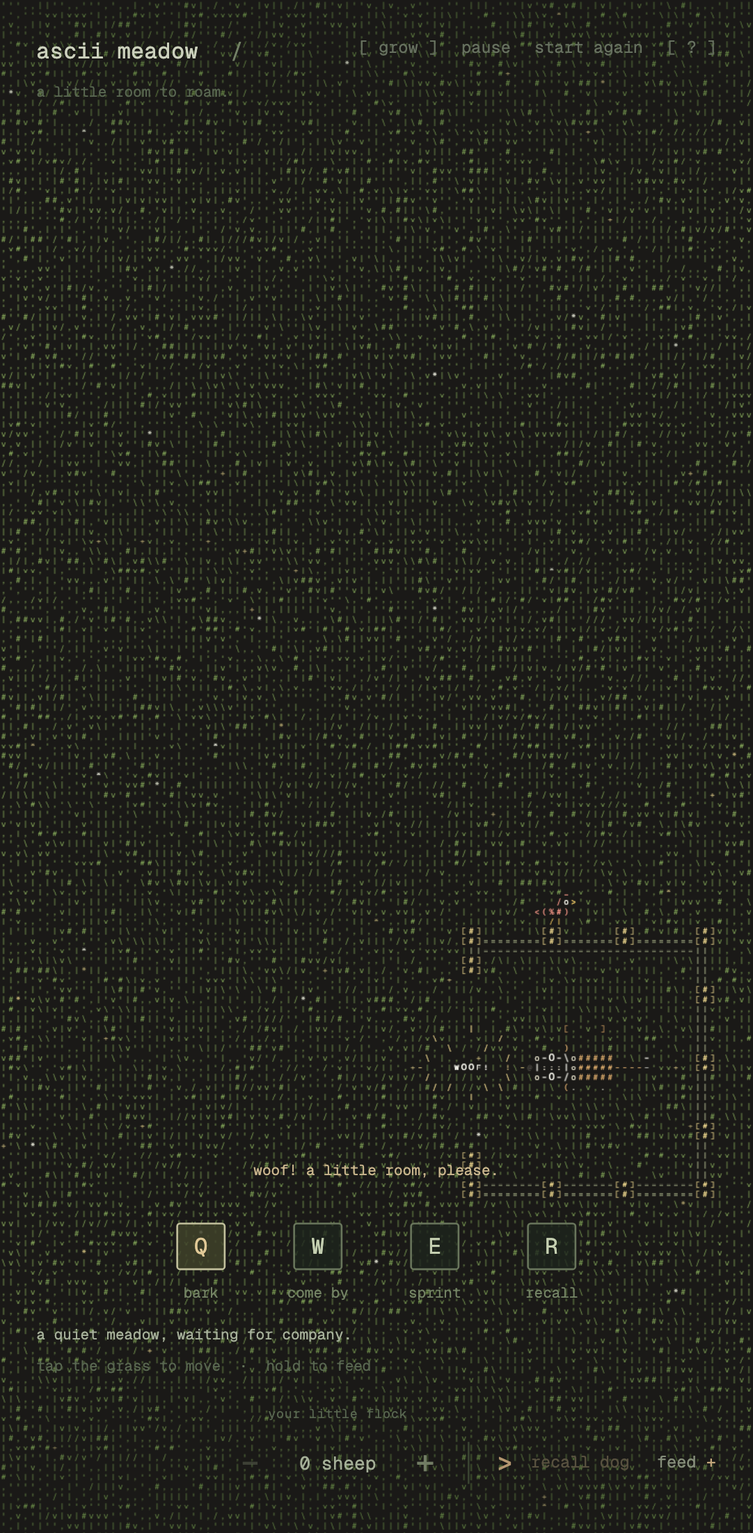
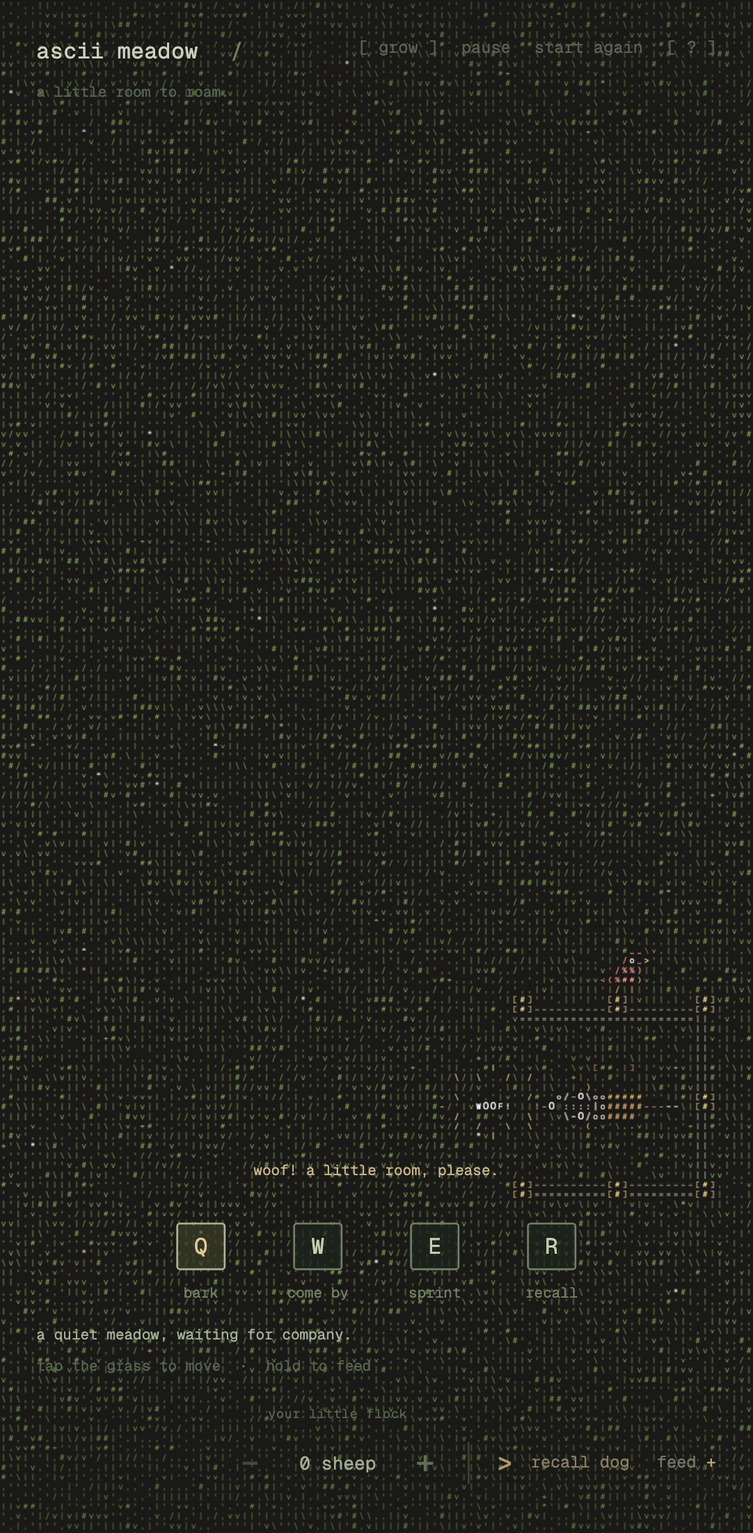
Compact the dog pen and prioritize larger perched birds

diff --git a/e2e/meadow.spec.ts b/e2e/meadow.spec.ts
@@ -5,7 +5,7 @@ test.beforeEach(async ({ page }) => { await page.goto('/?debug'); await page.eva
 
 test('living grass, grazing sheep, full canvas and no errors', async ({ page }, info) => {
   const errors: string[] = []; page.on('pageerror', e => errors.push(e.message));
-  const before = await state(page); expect(before.count).toBe(18); expect(before.cols * before.cellW).toBeGreaterThanOrEqual(before.width); expect(before.rows * before.cellH).toBeGreaterThanOrEqual(before.height);
+  const before = await state(page); expect(before.count).toBe(18); expect(before.dog.atHome).toBe(true); expect(before.dog.arrived).toBe(true); expect(before.dog.x).toBe(before.home.x); expect(before.dog.y).toBe(before.home.y); expect(before.cols * before.cellW).toBeGreaterThanOrEqual(before.width); expect(before.rows * before.cellH).toBeGreaterThanOrEqual(before.height);
   const box = await page.locator('canvas').boundingBox(); expect(box?.width).toBe(before.width); expect(box?.height).toBe(before.height);
   await expect.poll(async () => (await state(page)).eaten).toBeGreaterThan(before.eaten + 0.1);
   await expect.poll(async () => (await state(page)).time).toBeGreaterThan(2);
@@ -57,7 +57,7 @@ test('single right-clicks feed without calling or redirecting the dog; flock con
   await page.reload(); expect((await state(page)).count).toBe(19);
   await page.getByRole('button', { name: 'Remove a sheep', exact: true }).click(); expect((await state(page)).count).toBe(18);
   await page.mouse.click(first.width * 0.5, first.height * 0.4, { button: 'right' });
-  expect((await state(page)).feed.length).toBe(1); expect((await state(page)).dog).toBeNull();
+  expect((await state(page)).feed.length).toBe(1); expect((await state(page)).dog.atHome).toBe(true);
   await page.mouse.click(first.width * 0.7, first.height * 0.4); const commanded = await state(page);
   await page.mouse.click(first.width * 0.4, first.height * 0.45, { button: 'right' }); const fed = await state(page);
   expect(fed.feed.length).toBe(2); expect(fed.dog.targetX).toBe(commanded.dog.targetX); expect(fed.dog.targetY).toBe(commanded.dog.targetY);
@@ -73,7 +73,7 @@ test('pause, help, reset, keyboard visibility, reduced motion and resize', async
   await page.locator('#pause').click(); await page.keyboard.press('h'); await expect(page.locator('body')).toHaveClass(/hide-ui/); await page.keyboard.press('h');
   await page.setViewportSize({ width: 580, height: 760 }); await expect.poll(async () => (await state(page)).width).toBe(580);
   expect((await state(page)).count).toBe(18);
-  await page.locator('#reset').click(); expect((await state(page)).feed.length).toBe(0); expect((await state(page)).dog).toBeNull();
+  await page.locator('#reset').click(); expect((await state(page)).feed.length).toBe(0); expect((await state(page)).dog.atHome).toBe(true);
   await page.emulateMedia({ reducedMotion: 'reduce' }); await page.reload(); expect((await state(page)).paused).toBe(true);
 });
 
@@ -153,7 +153,7 @@ test('colorful visitors land in the meadow, take off near the dog, and appear wi
     }
     return { bird, colored, lambs: w.lambs.length, profileRows: profileRows.size, eyeAboveWing: eyeRow < wingRow };
   });
-  expect(landed.bird).toBeTruthy(); expect(landed.colored).toBeGreaterThan(3); expect(landed.lambs).toBe(3); expect(landed.profileRows).toBe(4); expect(landed.eyeAboveWing).toBe(true);
+  expect(landed.bird).toBeTruthy(); expect(landed.colored).toBeGreaterThan(3); expect(landed.lambs).toBe(3); expect(landed.profileRows).toBe(5); expect(landed.eyeAboveWing).toBe(true);
   await page.screenshot({ path: `docs/${info.project.name}-families.png` });
   const departing = await page.evaluate(() => {
     const app = (window as any).__meadow, w = app.world, bird = w.birds.find((b: any) => b.state === 'landed');
@@ -204,7 +204,7 @@ test('Space toggles a continuous hover regrow brush; P pauses independently', as
   expect((await state(page)).regrowMode).toBe(false);
   expect(await page.evaluate(({ x, y }) => (window as any).__meadow.world.pasture.at(x, y + 80), { x, y })).toBe(0);
   await page.keyboard.press('p'); expect((await state(page)).paused).toBe(false);
-  expect((await state(page)).dog).toBeNull(); expect((await state(page)).feed).toHaveLength(0);
+  expect((await state(page)).dog.atHome).toBe(true); expect((await state(page)).feed).toHaveLength(0);
 });
 
 test('terrain matches Pond charcoal; bare grass rests on charcoal before growing through stages', async ({ page }, info) => {
@@ -279,7 +279,7 @@ test('regrowth gains characters and color gradually, and running dogs have tucke
     for (let r = 0; r < p.rows; r++) for (let c = 0; c < p.cols; c++) p.grass[r * p.cols + c] = amounts[Math.min(5, Math.floor(c / p.cols * 6))];
     app.renderer.render();
     const stages = amounts.map((_, j) => app.renderer.cellAt((j + 0.5) / 6 * w.width, w.height * 0.4));
-    w.toggleDog(); const d = w.dog, x = w.width * 0.5, y = w.height * 0.4;
+    if (!w.dog) w.toggleDog(); const d = w.dog, x = w.width * 0.5, y = w.height * 0.4;
     Object.assign(d, { x, y, targetX: x + 100, targetY: y, heading: 0, vx: 108, vy: 0 }); w.time = 0.25;
     app.renderer.render(); let tail = 0, feet = 0;
     for (let r = 0; r < p.rows; r++) for (let c = 0; c < p.cols; c++) {
@@ -354,10 +354,22 @@ test('the dog starts inside a thick posted pen, opens its mouth to bark, and bir
     const bird = w.birds.find((b: any) => b.state === 'landed' && b.perchId !== undefined), post = bird && w.fence.posts[bird.perchId];
     const perched = !!bird && Math.abs(bird.x - post.x) < 1 && Math.abs(bird.y - (post.y - 2 * p.cellH)) < 1;
     w.toggleDog(); w.dog.barkAge = 0.12; w.paused = true; r.render();
-    return { closed, open, quiet, inside, postInk, postCount: w.fence.posts.length, perched };
+    const perchCells: { x: number; y: number; glyph: string; family: number }[] = [];
+    for (let row = 0; row < p.rows; row++) for (let col = 0; col < p.cols; col++) {
+      const x = (col + 0.5) * p.cellW, y = (row + 0.5) * p.cellH, cell = r.cellAt(x, y);
+      if (cell.priority === 8) perchCells.push({ x, y, glyph: cell.glyph, family: cell.family });
+    }
+    const homeDog = { ...w.dog };
+    Object.assign(w.dog, { x: bird.x, y: bird.y - 2 * p.cellH });
+    w.birds.push({ ...bird, id: 999, perchId: undefined, state: 'arriving', altitude: 0 }); r.render();
+    const visibleAboveEverything = perchCells.length > 15 && perchCells.every(q => {
+      const cell = r.cellAt(q.x, q.y); return cell.priority === 8 && cell.glyph === q.glyph && cell.family === q.family;
+    });
+    w.birds.pop(); Object.assign(w.dog, homeDog); r.render();
+    return { closed, open, quiet, inside, postInk, postCount: w.fence.posts.length, perched, visibleAboveEverything };
   });
   expect(result.inside).toBe(true); expect(result.closed.eyes).toBe(2); expect(result.closed.nose).toBeGreaterThan(0);
-  expect(result.postInk).toBe(result.postCount); expect(result.postCount).toBeGreaterThan(8);
-  expect(result.open.eyes).toBeGreaterThan(result.closed.eyes); expect(result.open.word).toBe('WOOF!'); expect(result.quiet.word).toBe(''); expect(result.perched).toBe(true);
+  expect(result.postInk).toBe(result.postCount); expect(result.postCount).toBe(7);
+  expect(result.open.eyes).toBeGreaterThan(result.closed.eyes); expect(result.open.word).toBe('WOOF!'); expect(result.quiet.word).toBe(''); expect(result.perched).toBe(true); expect(result.visibleAboveEverything).toBe(true);
   await page.screenshot({ path: `docs/${info.project.name}-pen-bark.png` });
 });

diff --git a/src/engine/Renderer.ts b/src/engine/Renderer.ts
@@ -197,13 +197,14 @@ export class Renderer {
       // A fixed side profile on the ground: head, beak, folded wing, tail and feet.
       const facing = Math.cos(b.heading) < 0 ? -1 : 1;
       const mirror: Record<string, string> = { '/': '\\', '\\': '/', '<': '>', '>': '<', '(': ')', ')': '(' };
-      const sprite = ['    _ ', '   /o>', '<(%#) ', '  /|  '];
+      const sprite = ['    __ ', '   /o_>', '  /%%) ', '<(%##) ', '  / |  '];
+      const priority = b.perchId === undefined ? 1 : 8;
       const anchorX = (Math.floor(x / p.cellW) + 0.5) * p.cellW, anchorY = (Math.floor(b.y / p.cellH) + 0.5) * p.cellH;
       for (let row = 0; row < sprite.length; row++) for (let col = 0; col < sprite[row].length; col++) {
         let glyph = sprite[row][col]; if (glyph === ' ') continue;
-        const eye = row === 1 && col === 4, beak = row === 1 && col === 5, feet = row === 3;
+        const eye = row === 1 && col === 4, beak = row === 1 && col === 6, feet = row === 4;
         if (facing < 0) glyph = mirror[glyph] ?? glyph;
-        this.put(anchorX + (col - 2) * p.cellW * facing, anchorY + (row - 3) * p.cellH, glyph, eye ? 1 : feet ? 0.7 : 0.92, eye ? 3 : beak || feet ? 11 : family, 1);
+        this.put(anchorX + (col - 2) * p.cellW * facing, anchorY + (row - 4) * p.cellH, glyph, eye ? 1 : feet ? 0.7 : 0.92, eye ? 3 : beak || feet ? 11 : family, priority);
       }
       return;
     }
@@ -321,7 +322,7 @@ export class Renderer {
     }
     for (const bark of w.barks) this.barkRipple(bark);
     this.pen();
-    for (const b of w.birds) if (b.state === 'landed') this.bird(b);
+    for (const b of w.birds) if (b.state === 'landed' && b.perchId === undefined) this.bird(b);
     const animals = w.animals;
     for (const s of animals) this.sheep(s);
     this.dog();
@@ -330,6 +331,8 @@ export class Renderer {
     this.sleep();
     this.barkComic();
     for (const b of w.birds) if (b.state !== 'landed') this.bird(b);
+    // A perched silhouette stays readable above posts, animals and effects.
+    for (const b of w.birds) if (b.state === 'landed' && b.perchId !== undefined) this.bird(b);
     ctx.setTransform(this.dpr, 0, 0, this.dpr, 0, 0); ctx.fillStyle = BG; if (this.repaintAll) ctx.fillRect(0, 0, w.width, w.height); ctx.imageSmoothingEnabled = false;
     for (let i = 0; i < this.codes.length; i++) {
       // Retain unchanged grass pixels. Snap cell edges to device pixels so erasing

diff --git a/src/simulation/fence.ts b/src/simulation/fence.ts
@@ -4,7 +4,7 @@ import type { Obstacle } from './navigation';
 export interface FenceRect { left: number; right: number; top: number; bottom: number }
 export interface Fence { rails: { a: Point; b: Point }[]; posts: Point[]; obstacles: Obstacle[]; gate: Point }
 export function makeFence(p: FenceRect, scale: number): Fence {
-  const cy = (p.top + p.bottom) / 2, halfGate = 70 * scale;
+  const cy = (p.top + p.bottom) / 2, halfGate = Math.min(70 * scale, (p.bottom - p.top) / 2 - scale);
   const rails = [
     { a: { x: p.left, y: p.top }, b: { x: p.right, y: p.top } },
     { a: { x: p.right, y: p.top }, b: { x: p.right, y: p.bottom } },
@@ -15,9 +15,11 @@ export function makeFence(p: FenceRect, scale: number): Fence {
   const posts: Point[] = [], obstacles: Obstacle[] = [];
   const addPost = (q: Point) => { if (!posts.some(o => Math.hypot(o.x - q.x, o.y - q.y) < 2 * scale)) posts.push(q); };
   for (const rail of rails) {
-    const length = Math.hypot(rail.b.x - rail.a.x, rail.b.y - rail.a.y), steps = Math.ceil(length / (16 * scale));
-    for (let j = 0; j <= steps; j++) obstacles.push({ x: rail.a.x + (rail.b.x - rail.a.x) * j / steps, y: rail.a.y + (rail.b.y - rail.a.y) * j / steps, radius: 58 * scale });
-    const spans = Math.max(1, Math.ceil(length / (55 * scale)));
+    const length = Math.hypot(rail.b.x - rail.a.x, rail.b.y - rail.a.y), steps = Math.max(1, Math.ceil(length / (16 * scale)));
+    for (let j = 0; j <= steps; j++) obstacles.push({ x: rail.a.x + (rail.b.x - rail.a.x) * j / steps, y: rail.a.y + (rail.b.y - rail.a.y) * j / steps, radius: 55 * scale });
+    // Corners and, on a long side, just one central post. Gate jambs near a
+    // corner share that post rather than making a second crowded pair.
+    const spans = length > 90 * scale ? 2 : 1;
     for (let j = 0; j <= spans; j++) addPost({ x: rail.a.x + (rail.b.x - rail.a.x) * j / spans, y: rail.a.y + (rail.b.y - rail.a.y) * j / spans });
   }
   return { rails, posts, obstacles, gate: { x: p.left, y: cy } };

diff --git a/src/interaction/Controller.ts b/src/interaction/Controller.ts
@@ -27,7 +27,7 @@ export class Controller {
     document.querySelector('#feed-button')!.addEventListener('click', () => this.toggleFeed(), opts);
     document.querySelector('#regrow-button')!.addEventListener('click', () => this.toggleRegrow(), opts);
     document.querySelector('#pause')!.addEventListener('click', () => this.setPaused(!world.paused), opts);
-    document.querySelector('#reset')!.addEventListener('click', () => { this.cancel(); world.reset(); this.sync(); renderer.render(); this.toast('a fresh patch of green.'); }, opts);
+    document.querySelector('#reset')!.addEventListener('click', () => { this.cancel(); world.reset(); world.toggleDog(); this.sync(); renderer.render(); this.toast('a fresh patch of green.'); }, opts);
     document.querySelector('#help-toggle')!.addEventListener('click', () => {
       const el = document.querySelector<HTMLElement>('#help')!; el.hidden = !el.hidden;
       document.querySelector('#help-toggle')!.setAttribute('aria-expanded', String(!el.hidden));

diff --git a/tests/meadow.test.ts b/tests/meadow.test.ts
@@ -117,7 +117,8 @@ describe('forward grazing and a physical recall pen', () => {
   });
   it('spawns inside the pen and uses the gate for exit and recall without clipping rails', () => {
     const w = new World(1200, 900, 0); w.toggleDog();
-    expect(w.dog!.x).toBe(w.home.x); expect(w.dog!.y).toBe(w.home.y); expect(w.dog!.atHome).toBe(true); expect(w.fence.posts.length).toBeGreaterThan(8);
+    expect(w.dog!.x).toBe(w.home.x); expect(w.dog!.y).toBe(w.home.y); expect(w.dog!.atHome).toBe(true); expect(w.fence.posts).toHaveLength(7);
+    expect((w.pen.right - w.pen.left) * (w.pen.bottom - w.pen.top)).toBeLessThan(164 * 180 * 0.6);
     const safe = () => { for (const o of w.fence.obstacles) expect(Math.hypot(w.dog!.x - o.x, w.dog!.y - o.y)).toBeGreaterThanOrEqual(o.radius - 0.1); };
     w.sendDog(300, 300);
     for (let i = 0; i < 900; i++) { w.step(1 / 60); safe(); }

diff --git a/src/main.ts b/src/main.ts
@@ -7,6 +7,7 @@ let count = 18;
 try { const saved = localStorage.getItem('ascii-meadow.count.v1'); if (saved !== null && Number.isFinite(Number(saved))) count = Math.max(0, Math.min(80, Math.round(Number(saved)))); } catch { /* optional storage */ }
 const canvas = document.querySelector<HTMLCanvasElement>('#meadow')!;
 const world = new World(Math.max(200, innerWidth), Math.max(300, innerHeight), count);
+world.toggleDog();
 const renderer = new Renderer(canvas, world);
 const controller = new Controller(canvas, world, renderer);
 const resize = new ResizeObserver(() => { world.resize(Math.max(200, innerWidth), Math.max(300, innerHeight)); renderer.resize(); renderer.render(); });

diff --git a/src/simulation/World.ts b/src/simulation/World.ts
@@ -56,7 +56,7 @@ export class World {
   }
   get pen(): Rect {
     const right = this.width - 32 * this.scale, bottom = this.dogBounds.bottom - 5 * this.scale;
-    return { left: right - 164 * this.scale, right, top: bottom - 180 * this.scale, bottom };
+    return { left: right - 128 * this.scale, right, top: bottom - 128 * this.scale, bottom };
   }
   get fence() {
     if (!this.fenceCache || this.fenceCache.width !== this.width || this.fenceCache.height !== this.height)

diff --git a/README.md b/README.md
@@ -1,6 +1,6 @@
 # ASCII Meadow
 
-A little room to roam. A full-screen meadow of grass, clover, tiny flowers and sheep, drawn entirely with ASCII glyphs. Sheep graze, leave eaten patches, move on to greener grass and follow scattered feed. Call a small sheepdog and guide the flock with point-and-click movement and four abilities.
+A little room to roam. A full-screen meadow of grass, clover, tiny flowers and sheep, drawn entirely with ASCII glyphs. Sheep graze, leave eaten patches, move on to greener grass and follow scattered feed. Guide a small sheepdog and the flock with point-and-click movement and four abilities.
 
 ![ASCII Meadow](docs/desktop.png)
 
@@ -35,7 +35,7 @@ All four actions can be used again immediately: **there are no cooldowns**.
 | **E** | **Sprint** | A short sprint toward its current destination. When idle, the dog sprints toward the cursor. |
 | **R** | **Recall / Release** | First press: return to the small fenced pen in the bottom-right corner. Next press: sprint all the way to the cursor, with no click required. The second press also works while the dog is on its way home. |
 
-The dog always appears fully inside the posted pen, including when first called by clicking the meadow or casting an ability. The bottom-right dog button calls the dog, then offers the same recall/release action as R. An idle dog dozes after seven seconds and releases drifting `z`/`Z` glyphs. Movement or an ability wakes it immediately. A sleeping dog keeps a gentle 56 px personal-space radius. A moving dog influences a wider 172 px radius (205 px during a sprint), and sheep anticipate its approach about half a second ahead. An awake stationary dog keeps a smaller 92 px zone. A recalled dog rests inside its pen. The pen has double ASCII rails, chunky corner and intermediate posts, and an open gate facing the meadow. Dog navigation and continuous collision checks use the same fence geometry as the drawing, with room for the whole head, body and tail; even a sprint must use the gate. Sheep keep their entire silhouettes clear of the pen. Come By detours around the fence and measures progress along its route so detours do not shorten the lap. On arrival the dog keeps its last heading, including when it falls asleep. Heading updates use the signed shortest angle and stay normalized, so repeated Come By laps never produce a 270-degree turn at a 90-degree corner.
+The dog starts resting fully inside the pen on page load and after starting again. The compact 128 × 128 px pen has about 45% less area than before, with four corner posts and only one intermediate post on each closed side. The bottom-right dog button offers the same recall/release action as R. An idle dog dozes after seven seconds and releases drifting `z`/`Z` glyphs. Movement or an ability wakes it immediately. A sleeping dog keeps a gentle 56 px personal-space radius. A moving dog influences a wider 172 px radius (205 px during a sprint), and sheep anticipate its approach about half a second ahead. An awake stationary dog keeps a smaller 92 px zone. A recalled dog rests inside its pen. The pen has double ASCII rails, chunky corner and intermediate posts, and an open gate facing the meadow. Dog navigation and continuous collision checks use the same fence geometry as the drawing, with room for the whole head, body and tail; even a sprint must use the gate. Sheep keep their entire silhouettes clear of the pen. Come By detours around the fence and measures progress along its route so detours do not shorten the lap. On arrival the dog keeps its last heading, including when it falls asleep. Heading updates use the signed shortest angle and stay normalized, so repeated Come By laps never produce a 270-degree turn at a 90-degree corner.
 
 ## Feeding and other controls
 
@@ -78,7 +78,7 @@ The field uses ASCII Pond’s exact warm charcoal `#1a1917` (`DARK.page: [26, 25
 
 Each six adult sheep bring one lamb: the default meadow has 18 adults and 3 lambs. Lambs are roughly half adult size, nibble smaller patches more slowly, and choose grazing spots near their own adult. They catch up when separated and respond to the same dog, bark and herding controls. Adding or removing adults adjusts the lamb count automatically; the flock caption shows the number of lambs. The adult counter and saved population keep their existing meaning.
 
-Small turquoise, coral and gold birds occasionally fly into the field, settle on fresh open grass, rest for a few seconds, and fly away. Broad, filled wings flap in flight. On the ground, a stable side profile shows the head and beak above a folded wing, with a tail and two feet; character rows align to the grid so the head and body cannot collapse together. Landing sites must clear sheep, lambs, other birds and the dog. Birds reserve a site and re-check it during approach, choosing another if it becomes occupied; they leave if no safe site exists. Sheep choose grazing patches away from these sites and gently steer around resting birds. A nearby dog, bark, or accidental contact from a sheep’s body or muzzle sends the bird airborne early. The first visit starts after about five seconds, subsequent visits are spaced 17–30 seconds apart, and no more than three birds visit at once. Some visitors choose a free fence post instead of grass and stand above the cap. Perched birds do not reserve grazing space; they tolerate a resting dog below, but leave if an animal approaches closely or a bark reaches them. Pause, reset and resize include both lambs and birds, including their perch positions.
+Small turquoise, coral and gold birds occasionally fly into the field, settle on fresh open grass, rest for a few seconds, and fly away. Broad, filled wings flap in flight. On the ground, a stable side profile shows the head and beak above a folded wing, with a tail and two feet; character rows align to the grid so the head and body cannot collapse together. Landing sites must clear sheep, lambs, other birds and the dog. Birds reserve a site and re-check it during approach, choosing another if it becomes occupied; they leave if no safe site exists. Sheep choose grazing patches away from these sites and gently steer around resting birds. A nearby dog, bark, or accidental contact from a sheep’s body or muzzle sends the bird airborne early. The first visit starts after about five seconds, subsequent visits are spaced 17–30 seconds apart, and no more than three birds visit at once. Sitting birds use a slightly larger seven-column, five-row profile. Some visitors choose a free fence post instead of grass and stand above the cap, drawn above every animal and effect so nothing covers their silhouette. Perched birds do not reserve grazing space; they tolerate a resting dog below, but leave if an animal approaches closely or a bark reaches them. Pause, reset and resize include both lambs and birds, including their perch positions.
 
 ## Implementation
 

diff --git a/docs/VALIDATION.md b/docs/VALIDATION.md
@@ -18,7 +18,7 @@ Browser checks cover visible grass and sheep, canvas coverage, left-click moveme
 
 Forward-grazing checks exercise 24 headings with greener grass behind the sheep and verify every normal choice stays within ±45 degrees. A sheep directly ahead produces a clear forward side lane. Physical-pen checks verify spawn position, posts, gate exit and recall, sprite clearance from rails, sprint collision protection, and sheep exclusion. Bird checks verify an actual post landing, no ground reservation for a perch and takeoff when chased. The dog’s two eyes, dark nose, opening mouth, immediate WOOF! text and its disappearance are verified on desktop and mobile. The bare-ground check excludes fence ink, and wave checks exclude the separately verified comic/mouth layer. `dog-pen-detail.png` shows the face, burst, double rails, posts and a perched bird.
 
-New bird interaction checks verify that a packed field receives no landing bird, an approach re-targets when its site becomes occupied, ordinary sheep can walk around a resting bird without flushing it, and body or muzzle contact makes the bird take off. Landed bird rendering is checked for four distinct character rows with the eye above the folded wing on desktop and mobile. The head and ear geometry is scaled to 80%, retaining its white contour, and dog paw strokes stay vertical while the coat rotates. `farm-animals-detail.png` shows the smaller heads, dog paws, broad flying wings and landed profiles.
+New bird interaction checks verify that a packed field receives no landing bird, an approach re-targets when its site becomes occupied, ordinary sheep can walk around a resting bird without flushing it, and body or muzzle contact makes the bird take off. Landed bird rendering is checked for five distinct character rows with the eye above the folded wing on desktop and mobile. The head and ear geometry is scaled to 80%, retaining its white contour, and dog paw strokes stay vertical while the coat rotates. `farm-animals-detail.png` shows the smaller heads, dog paws, broad flying wings and landed profiles.
 
 New family and visitor checks cover the one-lamb-per-six-adults ratio through add, remove, reset and the 80-adult maximum; half-size lamb silhouettes and valid parent links; catching up with a separated parent; lamb response to the dog and bark; pause and resize. Bird checks cover arrival, landing, resting, departure, population limits, and early takeoff for a dog or bark. Desktop and mobile rendering checks verify two uppercase O eyes, two ear tips, dark face interiors and a bright white contour on entirely cropped ground at all four cardinal headings. The face, ear and incremental-rendering cases were rerun on both desktop and mobile after the outline refinement: all six passed, along with the production build. The adult/lamb close-up in `sheep-heads-detail.png` shows the outline over fresh and grazed ground. The family caption is checked after population changes. Bird glyph colors and an actual landed visitor are verified before family screenshots are captured. Grazing and growth checks now use the slower consumption and recovery rates.
 
@@ -26,6 +26,8 @@ Animal ground shadows and automatic trampling marks have been removed. Dog, shee
 
 The screenshots in this directory are actual captures of the application, inspected during development. The in-app browser was also used directly to call the dog, issue left-click commands and bark.
 
-Raw frame samples are saved in `performance-desktop.json` and `performance-mobile.json`. The default desktop has 36,450 grass cells and 18 adults plus 3 lambs, with occasional birds. Production JavaScript is approximately 56.3 kB (20.4 kB gzip), with 6.7 kB CSS and a 9.9 kB local font. There are no runtime package dependencies.
+Raw frame samples are saved in `performance-desktop.json` and `performance-mobile.json`. The default desktop has 36,450 grass cells and 18 adults plus 3 lambs, with occasional birds. Production JavaScript is approximately 56.5 kB (20.4 kB gzip), with 6.7 kB CSS and a 9.9 kB local font. There are no runtime package dependencies.
 
 These are samples from this computer, not a hardware-independent FPS guarantee. Mobile checks use Chromium emulation; native Safari and physical touch devices remain unverified. The meadow is a local project and has not been deployed.
+
+The compact pen is 128 × 128 px before responsive scaling, a 44.5% area reduction. Seven posts give four corners and a single intermediate post on each closed side. Gate exit, recall and sprint rail protection pass with the smaller pen. Fresh-page and reset browser checks confirm the dog is already parked at home without a click. Sitting birds have a larger seven-column, five-row side profile. Perched birds render last at the highest priority; deliberate overlap by the dog and a flying bird preserves every perched glyph on desktop and mobile. `compact-pen.png` and `compact-pen-detail.png` show the smaller enclosure, resting dog and an actual landed visitor.
